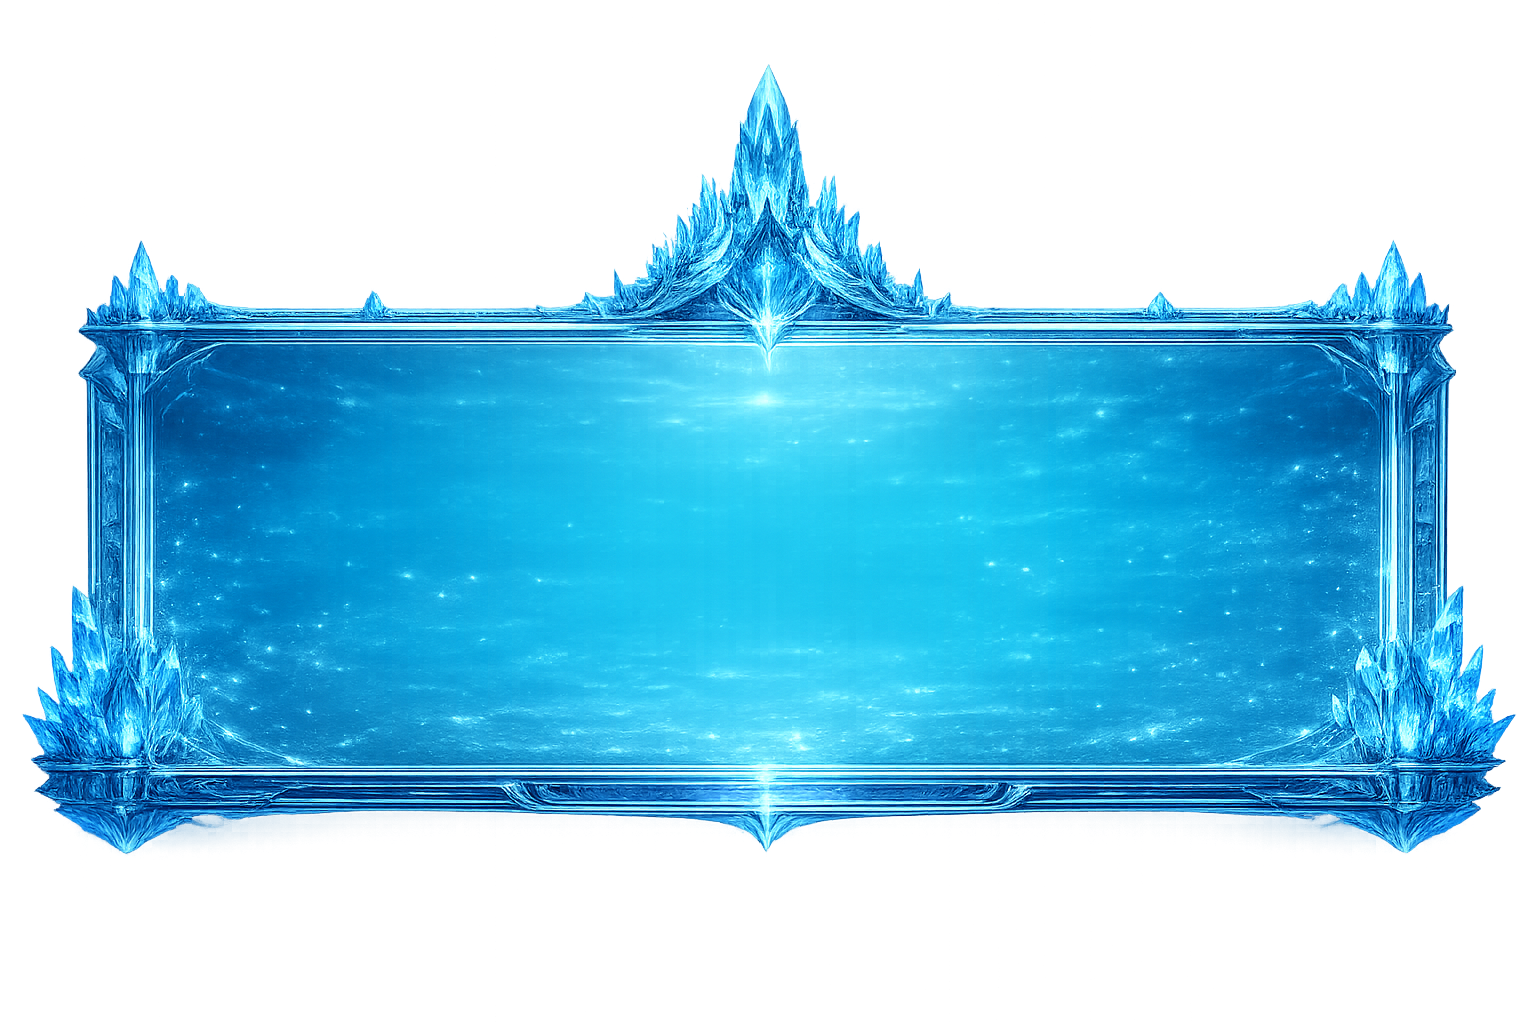
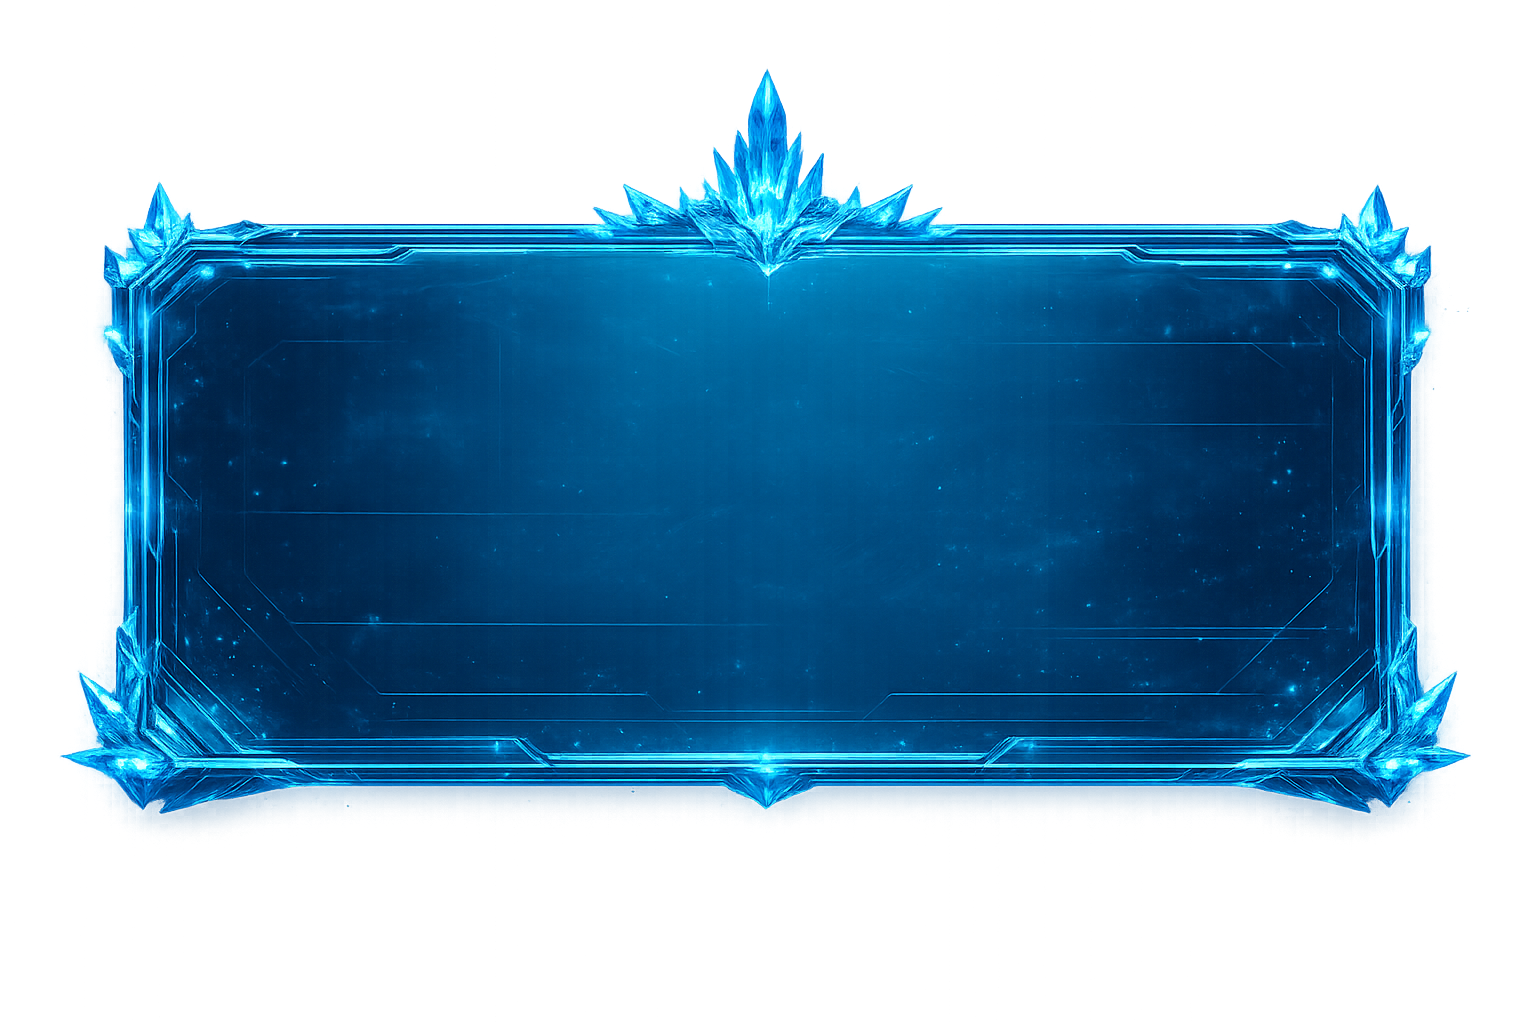
Rafraîchit le style visuel des cadres LARGE (lignes tech plus détaillées)
Content/UI/PanelFrameWideAquiloris/Noxeens.png remplacés par une nouvelle
passe artistique (bord "circuit tech" plus fin/détaillé). Même résolution,
aucun changement de code : DrawControlsScreen prend le nouveau visuel
automatiquement.

diff --git a/TODO_WOTOL.md b/TODO_WOTOL.md
@@ -1,5 +1,16 @@
 # TODO WOTOL — notes a appliquer au PROCHAIN changement
 
+## Mise a jour style visuel des cadres LARGE (26/07/2026, suite)
+
+Liamor a fourni une nouvelle passe artistique des cadres LARGE (memes fichiers, `Content/UI/
+PanelFrameWideAquiloris.png` / `PanelFrameWideNoxeens.png` ecrases en place, meme resolution
+1536x1024) : style "lignes de circuit tech" plus fin/detaille sur le bord du cadre, remplace
+l'ancienne version. Aucun changement de code necessaire (le chargeur relit le fichier par
+chemin a chaque nouvelle session) -> pris en compte automatiquement par DrawControlsScreen.
+Cadres PORTRAIT et STANDARD (paysage, ObjectiveWindow/ConfirmDialog) restent dans l'ancien
+style pour l'instant -> incoherence visuelle possible entre ecrans si Liamor ne fournit pas la
+meme passe pour ces deux autres formats.
+
 ## Cadres PORTRAIT + LARGE pour Reglages/Commandes (26/07/2026, suite)
 
 Liamor a fourni le jour meme les 2 formats manquants notes dans l'entree precedente (cadre
